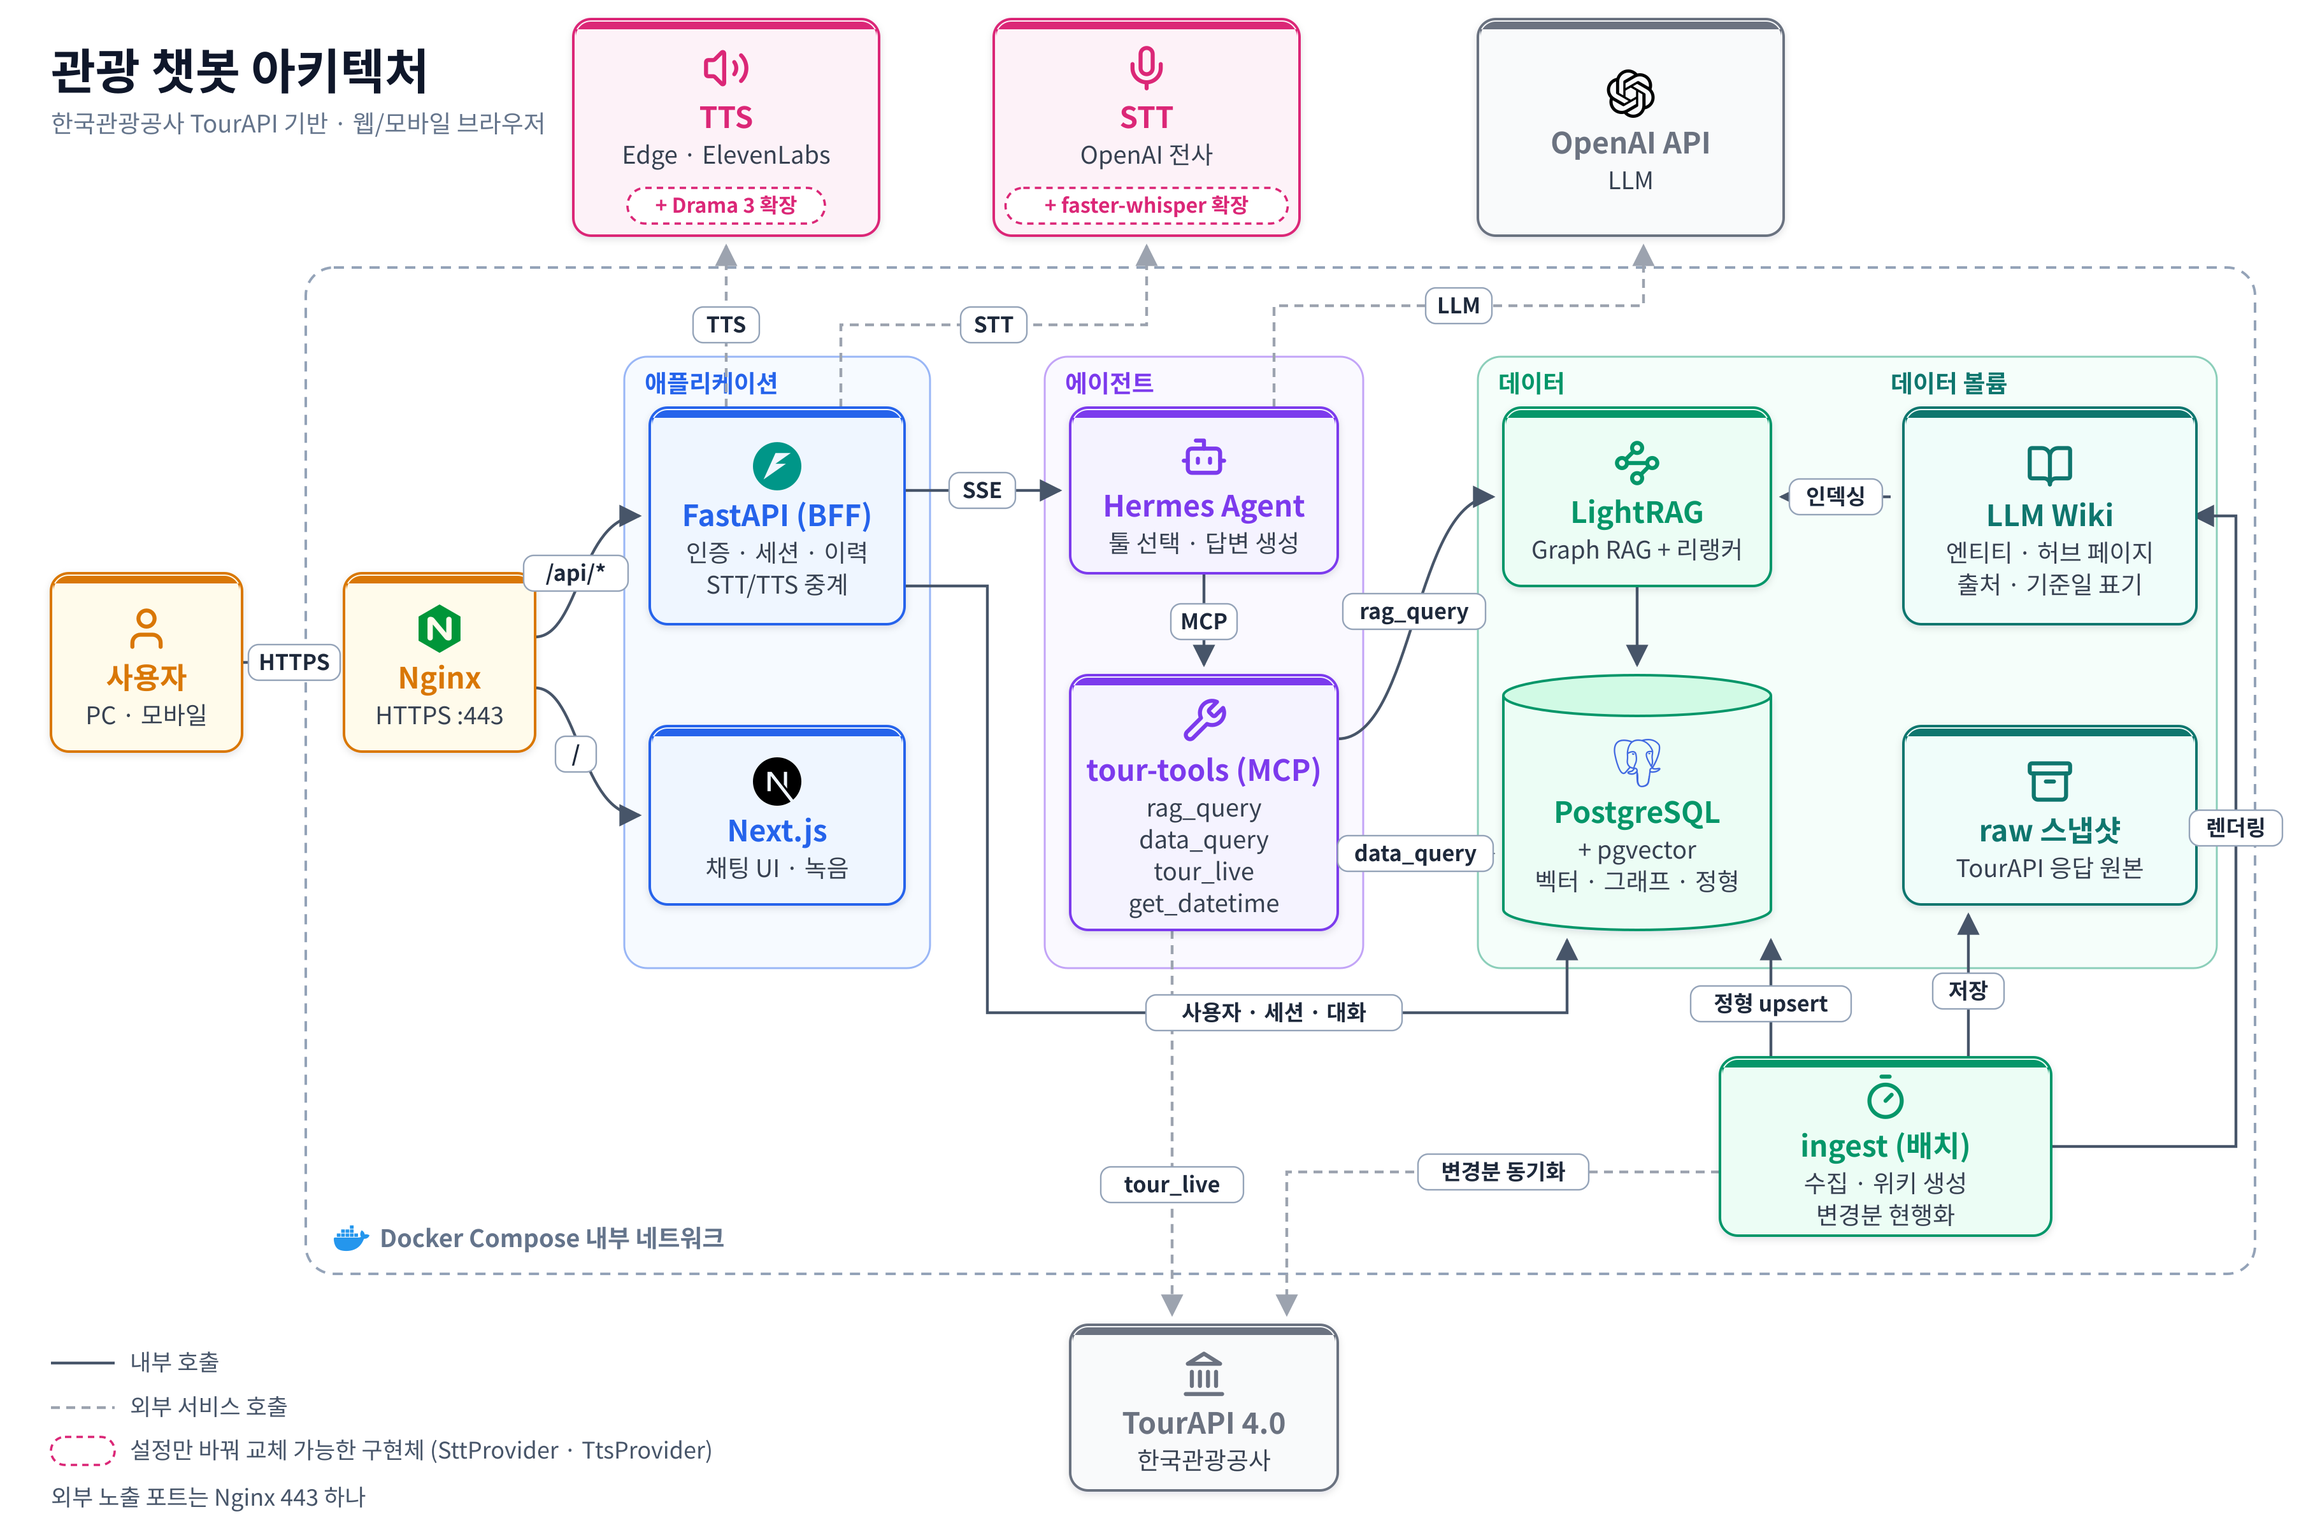
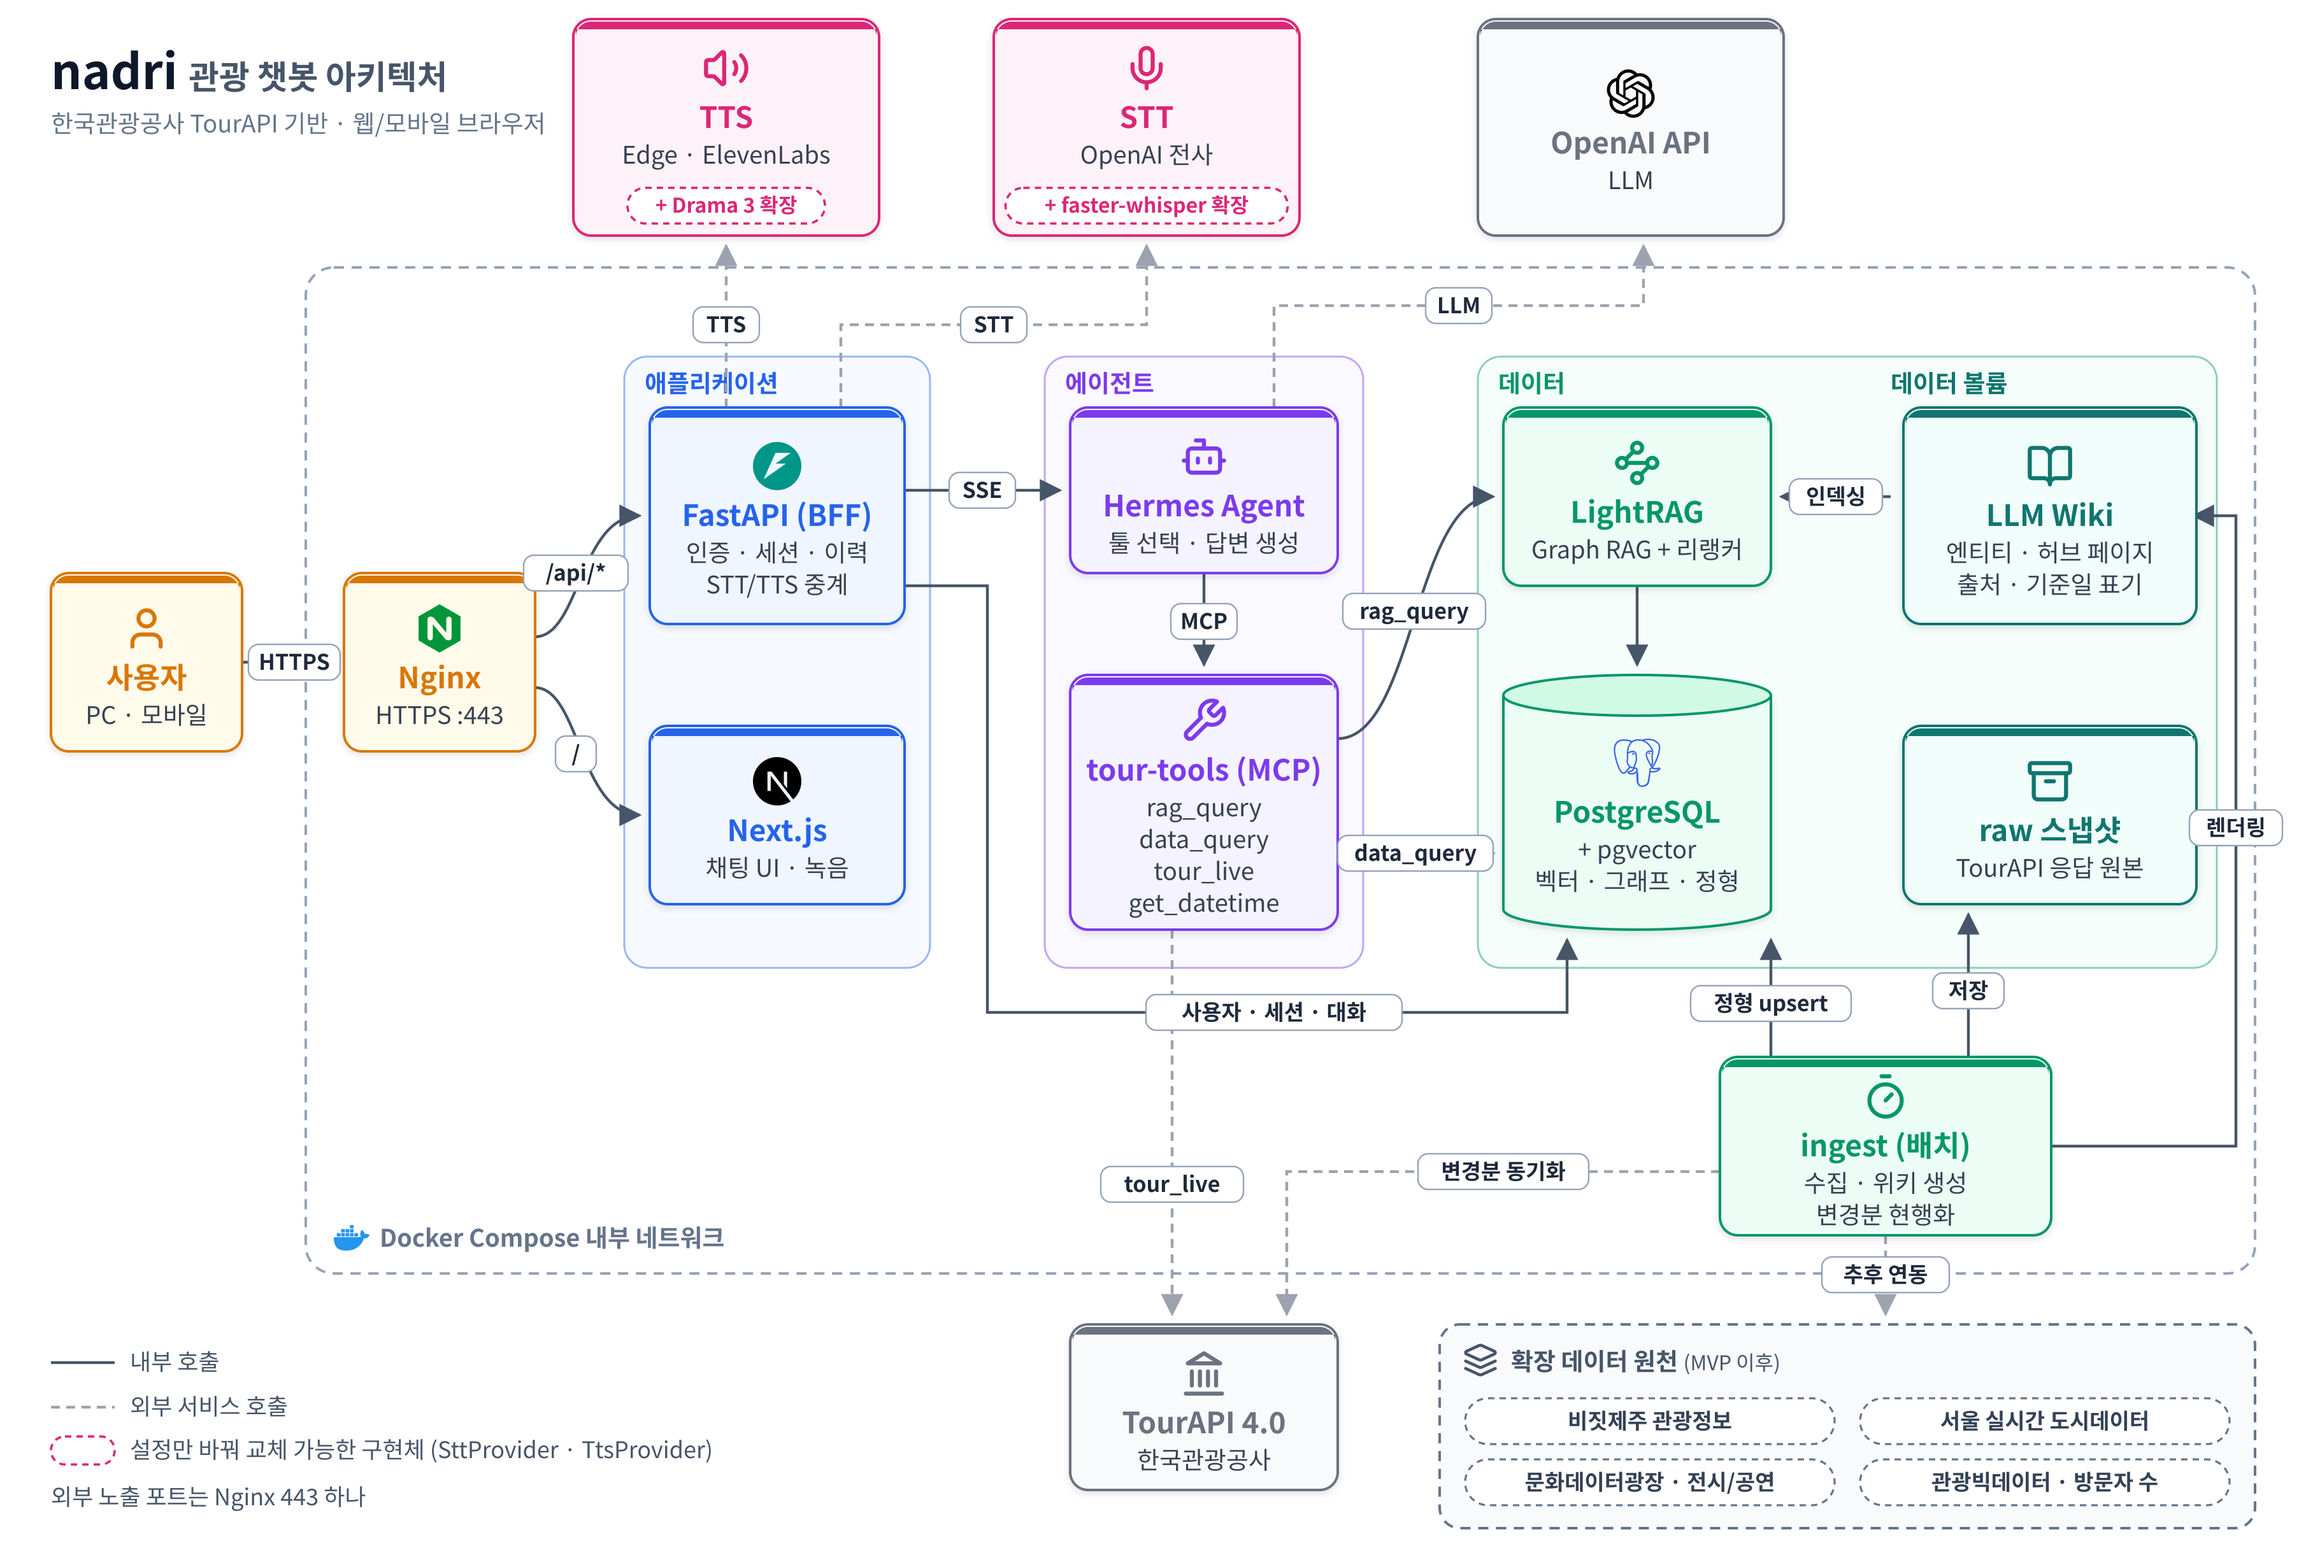
[Docs] 프로젝트명 nadri 확정 및 확장 데이터 원천 추가
- README·구성도 제목을 nadri로 변경
- 추가 데이터 원천 조사 문서(docs/analysis/01-data-sources.md) 추가
- 확장 데이터 원천 4곳(비짓제주, 서울 실시간 도시데이터, 문화데이터광장, 관광빅데이터)을 MVP 이후 항목으로 요구사항(FR-49)·TECH_STACK·README에 반영
- 구성도에 STT/TTS 교체 가능 구현체(faster-whisper, Drama 3)와 확장 데이터 원천 표시, 화살표 라벨 가독성 개선
- PROGRESS.md 결정 로그 갱신

Author: choi.debugs.y@gmail.com

diff --git a/docs/analysis/01-data-sources.md b/docs/analysis/01-data-sources.md
@@ -1,0 +1,40 @@
+# 01. 추가 데이터 원천 조사 (TourAPI 외)
+
+> 작성일 2026-10-25. 웹 검색 기반 1차 조사 — `미확인` 항목은 연동 작업 전에 공식 페이지에서 다시 확인한다.
+> 결정: **MVP는 TourAPI만 사용**하고, 아래 4곳은 **확장 데이터 원천(추후)** 으로 아키텍처에 표시해 둔다. (requirements FR-49)
+
+## 1. 확장 데이터 원천 (아키텍처에 반영)
+
+| # | 원천 | 운영 | 받는 방법 | 데이터 | 챗봇 활용 예 | 확인 필요 |
+|---|---|---|---|---|---|---|
+| 1 | **비짓제주 관광정보 API** | 제주관광공사 | 공공데이터포털 활용신청 → 인증키로 `api.visitjeju.net` 호출. JSON, 이용허락 제한 없음 (2026-06-23 수정) | 관광지·숙박·음식점·쇼핑·문화시설·축제·체험 — 기본정보, 상세설명, 위치, 운영정보, 이미지 | 제주 지역 답변 보강 (TourAPI보다 세밀할 가능성) | 트래픽 한도(공개 수치 없음), TourAPI와 중복 범위 |
+| 2 | **서울 실시간 도시데이터** | 서울시 (서울 열린데이터광장) | 서울 열린데이터광장 자체 인증키 | 주요 관광지·공원·상권 50곳 실시간 혼잡도 등 | "지금 경복궁 붐벼?" 같은 실시간 질문 | 2022년 발표 기준 — 현재 제공 범위·명칭 |
+| 3 | **문화데이터광장** | 한국문화정보원 (문체부) | 문화데이터광장 자체 API 키 | 분야별 API 약 240종, 관광정보 등 맞춤형 API 8종, 전시·공연·문화행사 | 전시·공연 일정 질문 | 관광 관련 API 목록·라이선스, TourAPI 행사 정보와 중복 |
+| 4 | **한국관광공사 관광빅데이터** | 한국관광공사 | 공공데이터포털 (TourAPI와 같은 계정) | 이동통신 기반 광역·기초지자체별 방문자 수 | "요즘 사람 많이 가는 곳" 트렌드 질문 | '방문자'≠관광객, 광역·기초 단순 합산 불가 (데이터 설명 참조) |
+
+## 2. 참고만 (API 없음 / 원천으로 부적합)
+
+| 원천 | 내용 | 비고 |
+|---|---|---|
+| 한국관광 데이터랩 | 방문자 수·관광지출·검색량 분석 화면 | 자체 API 미확인, 일부 자료만 포털 파일데이터 |
+| 투어고 (한국문화관광연구원) | 관광 통계·정책·보고서 | 통계 참고용 |
+| 투어라즈 | 관광 동향·보고서 모음 | 참고용 |
+| 한국관광공사 기타 주제별 API | 무장애 여행, 생태관광, 고캠핑, 두루누비, 오디오 가이드, 관광사진 | 범위 확대 시 후보 (같은 포털 계정) |
+
+## 3. 크롤링에 대해
+- 위 원천은 모두 API·파일로 제공되므로 **크롤링은 쓰지 않는 것을 기본**으로 한다.
+- 크롤링이 꼭 필요하면 대상마다 `robots.txt`·이용약관·저작권(블로그·리뷰·뉴스 본문은 대부분 재사용 불가)을 먼저 확인하고, 출처 표기가 가능한 공식 페이지(지자체 축제 공식 사이트 등)로 한정한다.
+
+## 4. 연동 시 고려사항 (G3·구현 때 참고)
+- 수집은 `ingest`에 원천별로 추가한다. 실시간성 데이터(혼잡도)는 `tour-tools`의 실시간 툴로 노출하는 쪽이 맞다.
+- 원천마다 **출처·기준일·라이선스 표기**를 위키 frontmatter와 답변에 그대로 유지한다.
+- 같은 장소가 여러 원천에 있으면 어느 원천을 우선할지(병합 규칙)를 정해야 한다.
+- 원천별 일일 호출 한도를 따로 관리한다.
+
+## 출처
+- [알아두면 유용한 관광 데이터 제공 채널 5 (Daum)](https://v.daum.net/v/20240102170805055)
+- [제주관광공사_비짓제주 관광정보 오픈 API (공공데이터포털)](https://www.data.go.kr/data/15076361/openapi.do)
+- [서울 실시간 도시데이터 관련 (seoulsolution.kr)](https://seoulsolution.kr/ko/node/9712)
+- [한국문화정보원 문화데이터 자료 (kcisa.kr)](https://www.kcisa.kr/data/ebook/2023culturebook.pdf)
+- [한국관광공사 관광빅데이터 API (공공데이터포털)](https://www.data.go.kr/data/15101972/openapi.do)
+- [14년 축적된 관광 데이터 280만건 (아주경제)](https://www.ajunews.com/view/20240725074641040)

diff --git a/docs/harness/requirements.md b/docs/harness/requirements.md
@@ -1,7 +1,7 @@
 # 요구사항 — 한국관광공사 TourAPI 기반 관광 챗봇
 
 > 하네스 Phase 1 산출물 — **초안 (미해결 질문 답변 대기, G1 미승인)**. 작성일 2026-10-24.
-> 출처 표기: [CL]=CLAUDE.md, [TS]=TECH_STACK.md, [AN]=docs/analysis/00-initial-analysis.md
+> 출처 표기: [CL]=CLAUDE.md, [TS]=TECH_STACK.md, [AN]=docs/analysis/00-initial-analysis.md, [DS]=docs/analysis/01-data-sources.md
 > `미확인` = 문서로 확인 못 한 항목. `→Qn` = 미해결 질문과 연결된 항목.
 
 ## 1. 배경 / 목표
@@ -89,6 +89,7 @@
 | FR-46 | lint: 깨진 링크, 기준일이 지난 페이지, 모순을 찾아 리포트를 만든다 | [TS §3.3] |
 | FR-47 | 위키 디렉터리는 별도 git(데이터 볼륨)으로 커밋해 변경 이력을 남긴다 | [TS §3.3, §12] |
 | FR-48 | 수집 대상 지역·콘텐츠 타입 범위는 →Q5 | [TS §3.1] |
+| FR-49 | **확장 데이터 원천 (MVP 이후)**: 비짓제주 관광정보 API, 서울 실시간 도시데이터, 문화데이터광장, 한국관광공사 관광빅데이터. MVP에서는 연동하지 않고 아키텍처에 확장 지점으로만 표시. 원천별 출처·기준일·라이선스 표기 유지. 도입 순서는 Q5 지역 결정과 연계 | [DS] 2026-10-25 사용자 결정 |
 
 ### 3.5 툴 (tour-tools MCP)
 | ID | 요구사항 | 출처 |
@@ -190,7 +191,7 @@
 | DuckDB/SQLite, Apache AGE, Neo4j, Qdrant | [AN §10], [TS §5.1] |
 | 런타임에 범용 공공데이터 MCP(opendata-mcp 등)로 임의 API 호출 | [AN §3.4] |
 | WSL 오디오(WSLg Pulse) 마이크 처리, Hermes CLI 음성 모드(로컬 테스트용만) | [AN §3.6, §9] |
-| TourAPI 외 다른 공공데이터셋 | [AN §11] |
+| MVP 단계의 TourAPI 외 데이터 원천 연동 (확장 후보는 FR-49) · 크롤링 기본 미사용 | [AN §11], [DS §3] |
 
 ## 6. 미해결 질문 (G1 전 답변 필요)
 

diff --git a/TECH_STACK.md b/TECH_STACK.md
@@ -69,6 +69,7 @@
 - 콘텐츠 타입: 관광지·문화시설·행사/축제·여행코스·레포츠·숙박·쇼핑·음식점
 - **트래픽 제약**: 개발계정 일일 호출 한도가 작음(관광공사 API 다수가 1,000건/일) [미확인: KorService2 한도] → 초기 전체 적재에 수일 소요 가능. 대응: **MVP는 지역 1곳으로 범위 축소** 또는 운영계정 트래픽 증설 신청.
 - 이미지·저작권: 공공누리 유형 표기 및 "한국관광공사" 출처 표기 필요.
+- **확장 데이터 원천 (MVP 이후)**: 비짓제주 관광정보 API, 서울 실시간 도시데이터(혼잡도), 문화데이터광장(전시·공연), 한국관광공사 관광빅데이터(방문자 수). `ingest`에 원천별로 추가하고, 실시간성 데이터는 `tour-tools` 툴로 노출. 상세는 [`docs/analysis/01-data-sources.md`](docs/analysis/01-data-sources.md).
 
 ### 3.2 처리 흐름
 ```

diff --git a/docs/harness/PROGRESS.md b/docs/harness/PROGRESS.md
@@ -12,6 +12,8 @@
 
 ## 결정 로그 (게이트에서 바뀐 것)
 - 2026-10-25 (G1 전): 리버스 프록시 Caddy → **Nginx** (사용자 결정). requirements D-15·NFR-08, TECH_STACK, README, 구성도 반영. Nginx는 인증서 자동 발급이 없어 인증서 준비 방식은 Q4에서 함께 결정
+- 2026-10-25 (G1 전): 프로젝트 이름 **nadri** 확정 (README·구성도 제목). 로컬 디렉터리는 `myAgent` 유지
+- 2026-10-25 (G1 전): 확장 데이터 원천 4곳(비짓제주, 서울 실시간 도시데이터, 문화데이터광장, 관광빅데이터)을 MVP 이후 항목으로 추가 — requirements FR-49, `docs/analysis/01-data-sources.md`, 구성도 반영. 크롤링은 기본 미사용
 
 ## 기타 산출물
 - `README.md`, `.gitignore`, `docs/images/architecture.svg`·`architecture.png` (구성도, SVG가 원본)
